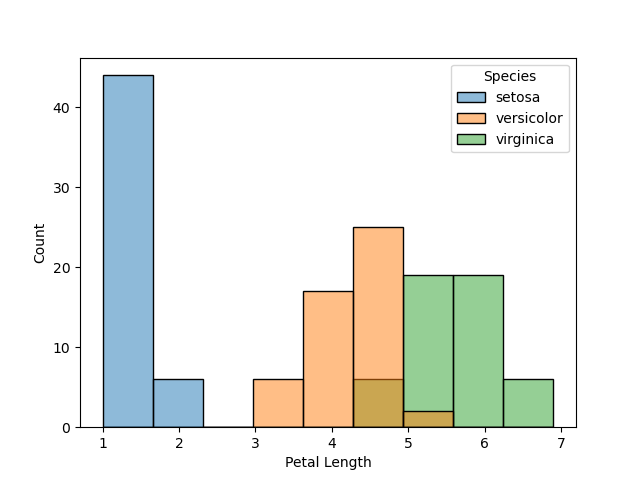
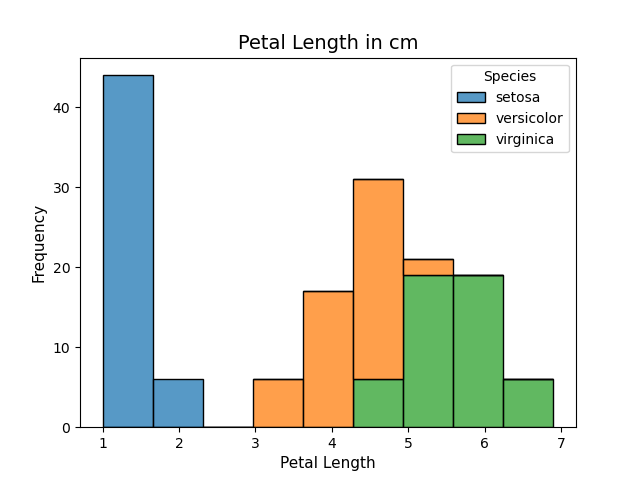
project

diff --git a/analysis.py b/analysis.py
@@ -5,6 +5,7 @@ import numpy as np
 import matplotlib.pyplot as plt
 import pandas as pd 
 import seaborn as sns 
+import sys 
 
 # Use 1 decimal places in output display
 pd.set_option("display.precision", 1)
@@ -13,20 +14,13 @@ filename = pd.read_csv('iris.csv')
 df = pd.DataFrame(filename)
 #print(df) #debug
 
-df.info()
-#print(df.info())
-
-#count of each species
-species = df['Species'].value_counts()  
-#print(species)  #debug
-
 # SUMMARY TO TXT FILE 
 with open ('summary.txt', 'wt') as f:
     f.write('The Iris Dataset: Statistics Summary of all Species\n')
     print(df.describe(), file=f)                                    # gives brief analysis of all 
     f.write('\nCount of Different Species:\n')
-    print(species, file=f)                                          # counts number of species
-    f.write('\nShape of Iris Dataset:\n',)
+    print(df['Species'].value_counts(), file=f)                     # counts number of species
+    f.write('\nShape of Iris Dataset:\n')
     print(df.shape, file=f)                                         # prints shape of data set
     f.write('\nStatistical Summary of Iris Setosa:\n',)
     print(df[df['Species'] == 'setosa'].describe(), file=f)         # prints summary of setosa
@@ -52,51 +46,51 @@ with open ('summary.txt', 'wt') as f:
 #### stack will stack the different species <<https://machinelearningknowledge.ai/seaborn-histogram-plot-using-histplot-tutorial-for-beginners/>>
 
 
+
 # Petal Length
 def histPetalLength():
     plt.figure()
     sns.histplot(data=df, x='Petal Length', hue='Species', multiple='stack')
-    plt.title('Petal Length in cm')
-    plt.xlabel('Petal Length')
-    plt.ylabel('Frequency')
-    plt.legend(loc='best')
-    #plt.savefig('histogramPetalLength.png')
-    plt.show()
-
-# Sepal Length
-def histSepalLength():
-    plt.figure()
-    sns.histplot(data=df, x='Sepal Length', hue='Species', multiple='stack')
-    plt.title('Sepal Length in cm')
-    plt.xlabel('Sepal Length')
-    plt.ylabel('Frequency')
-    plt.legend(loc='best')
-    #plt.savefig('histogramSepalLength.png')
-    plt.show() 
+    plt.title('Petal Length in cm', size=14)
+    plt.xlabel('Petal Length', size=11)
+    plt.ylabel('Frequency', size=11)
+    plt.savefig('histogramPetalLength.png')
+    #plt.show()
 
 # Petal Width
 def histPetalWidth():
     plt.figure()
     sns.histplot(data=df, x='Petal Width', hue='Species', multiple='stack')
-    plt.title('Petal Width in cm')
-    plt.xlabel('Petal Width')
-    plt.ylabel('Frequency')
-    plt.legend(loc='best')
-    #plt.savefig('histogramPetalWidth.png')
-    plt.show() 
+    plt.title('Petal Width in cm', size=14)
+    plt.xlabel('Petal Width', size=11)
+    plt.ylabel('Frequency', size=11)
+    plt.savefig('histogramPetalWidth.png')
+    #plt.show() 
+
+# Sepal Length
+def histSepalLength():
+    plt.figure()
+    sns.histplot(data=df, x='Sepal Length', hue='Species', multiple='stack')
+    plt.title('Sepal Length in cm', size=14)
+    plt.xlabel('Sepal Length', size=11)
+    plt.ylabel('Frequency', size=11)
+    plt.savefig('histogramSepalLength.png')
+    #plt.show() 
 
 # Sepal Width
 def histSepalWidth():
     plt.figure()
     sns.histplot(data=df, x='Sepal Width', hue='Species', multiple='stack')
-    plt.title('Sepal Width in cm')
-    plt.xlabel('Sepal Width')
-    plt.ylabel('Frequency')
-    plt.legend(loc='best')
-    #plt.savefig('histogramSepalWidth.png')  
-    plt.show()
+    plt.title('Sepal Width in cm', size=14)
+    plt.xlabel('Sepal Width', size=11)
+    plt.ylabel('Frequency', size=11)
+    plt.savefig('histogramSepalWidth.png')  
+    #plt.show()
 
-
+histPetalLength()
+histPetalWidth()
+histSepalLength()
+histSepalWidth()
 
 
 # SCATTERS

diff --git a/roughAnalysis.py b/roughAnalysis.py
@@ -1,82 +1,12 @@
 # Don't wrap repr(DataFrame) across additional lines
 pd.set_option("display.expand_frame_repr", False)
 
-##### dont think i need this.....
 
-# mean of each column of each species
-meansetosa = df[df['Species'] == 'setosa'].mean()
-meanversicolor = df[df['Species'] == 'versicolor'].mean()
-meanvirginica = df[df['Species'] == 'virginica'].mean()
-#print(maxsetosa'\n', maxversicolor'n', maxvirginica)
-#print(maxsetosa)
+#count of each species
+#species = df['Species'].value_counts()  
+#print(species)  #debug
 
-##### or this
-# var 2 - Mean of all columns 
-meanvalues = df.mean()
-#print(meanvalues)
 
-# var 3 - sum of each column ### need to figure out how to omit the species column for these
-#sum of widhts/ lenghts?
-sumvalues = df.sum() 
-#print(sumvalues)
-
-# var 4 - lowest value for each column
-minvalues = df.min()
-#print(minvalues)
-
-# var 5 - highest value for each column
-#maxvalues = df.max()
-#print(maxvalues)
-
-# VAR 1 - count()
-petalwidthcount = df.groupby(['Species'])[['Petal Width']].count()
-#print(petalwidthcount) #debug
-sepalwidthcount = df.groupby(['Species'])[['Sepal Width']].count()
-#print(sepalwidthcount) #debug
-petallenghtcount =df.groupby(['Species'])[['Petal Length']].count()
-#print(petallenghtcount) #debug
-sepallenghtcount =df.groupby(['Species'])[['Sepal Length']].count()
-#print(sepallenghtcount) #debug
-
-# VAR 2 - mean()
-sepalwidthmean = df.groupby(['Species'])[['Sepal Width']].mean()
-#print(sepalwidthmean) #debug
-sepallenghtmean =df.groupby(['Species'])[['Sepal Length']].mean()
-#print(sepallenghtmean) #debug
-petalwidthmean = df.groupby(['Species'])[['Petal Width']].mean()
-#print(petalwidthmean) #debug
-petallengthmean =df.groupby(['Species'])[['Petal Length']].mean()
-#print(petallengthmean) #debug
-
-# VAR 3 - std()
-petalwidthstd = df.groupby(['Species'])[['Petal Width']].std()
-#print(petalwidthstd) #debug
-sepalwidthstd = df.groupby(['Species'])[['Sepal Width']].std()
-#print(sepalwidthstd) #debug
-petallenghtstd =df.groupby(['Species'])[['Petal Length']].std()
-#print(petallenghtstd) #debug
-sepallenghtstd =df.groupby(['Species'])[['Sepal Length']].std()
-#print(sepallenghtstd) #debug
-
-# VAR 4 - min()
-petalwidthmin = df.groupby(['Species'])[['Petal Width']].min()
-#print(petalwidthmin) #debug
-sepalwidthmin = df.groupby(['Species'])[['Sepal Width']].min()
-#print(sepalwidthmin) #debug
-petallenghtmin =df.groupby(['Species'])[['Petal Length']].min()
-#print(petallenghtmin) #debug
-sepallenghtmin =df.groupby(['Species'])[['Sepal Length']].min()
-#print(sepallenghtmin) #debug
-
-# VAR 5 - max()
-petalwidthmax = df.groupby(['Species'])[['Petal Width']].max()
-#print(petalwidthmax) #debug
-sepalwidthmax = df.groupby(['Species'])[['Sepal Width']].max()
-#print(sepalwidthmax) #debug
-petallenghtmax =df.groupby(['Species'])[['Petal Length']].max()
-#print(petallenghtmax) #debug
-sepallenghtmax =df.groupby(['Species'])[['Sepal Length']].max()
-#print(sepallenghtmax) #debug
 
 
 # HISTOS
